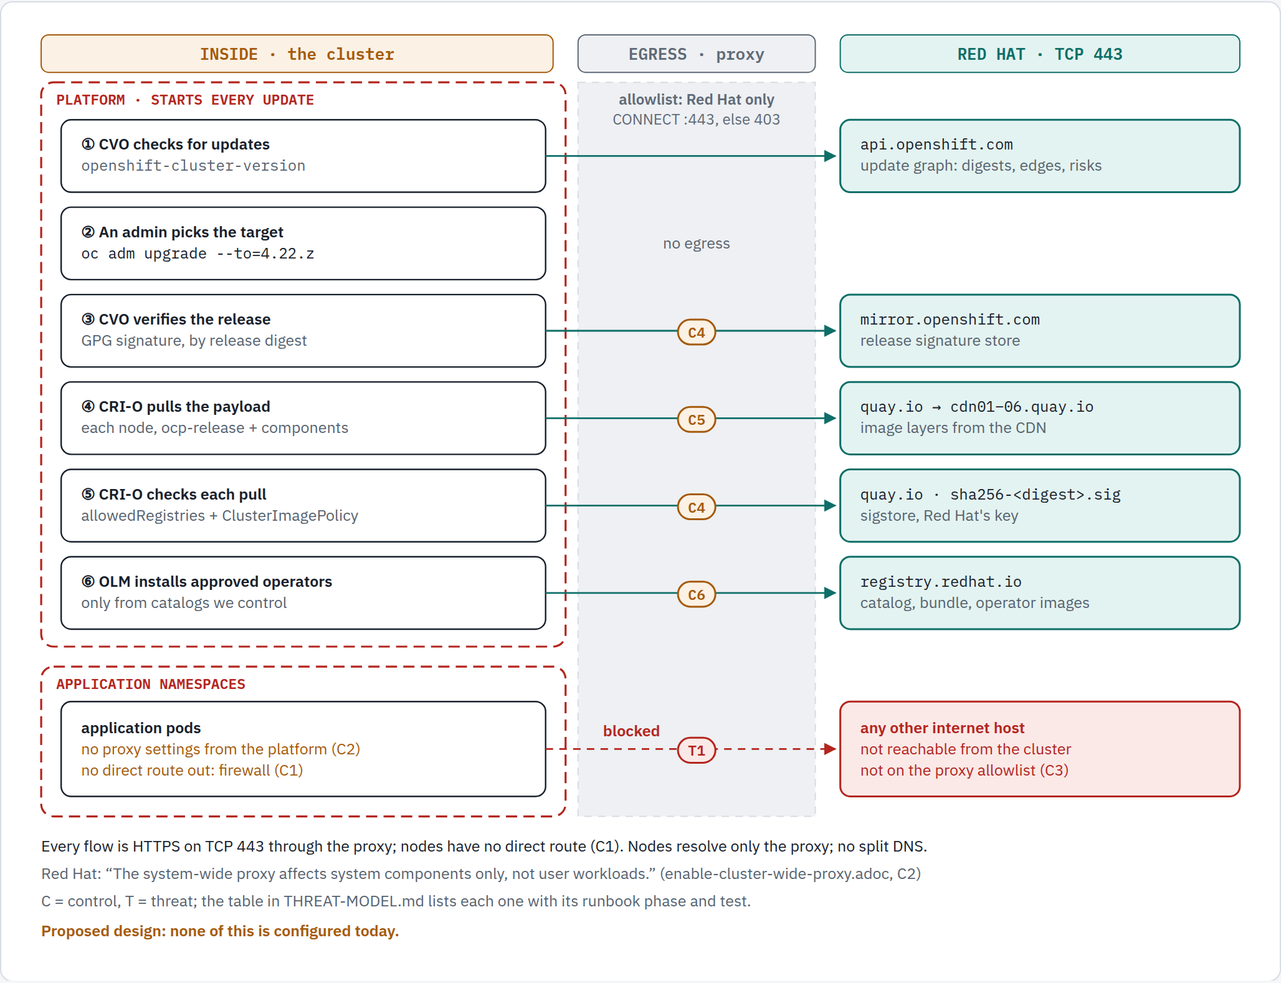
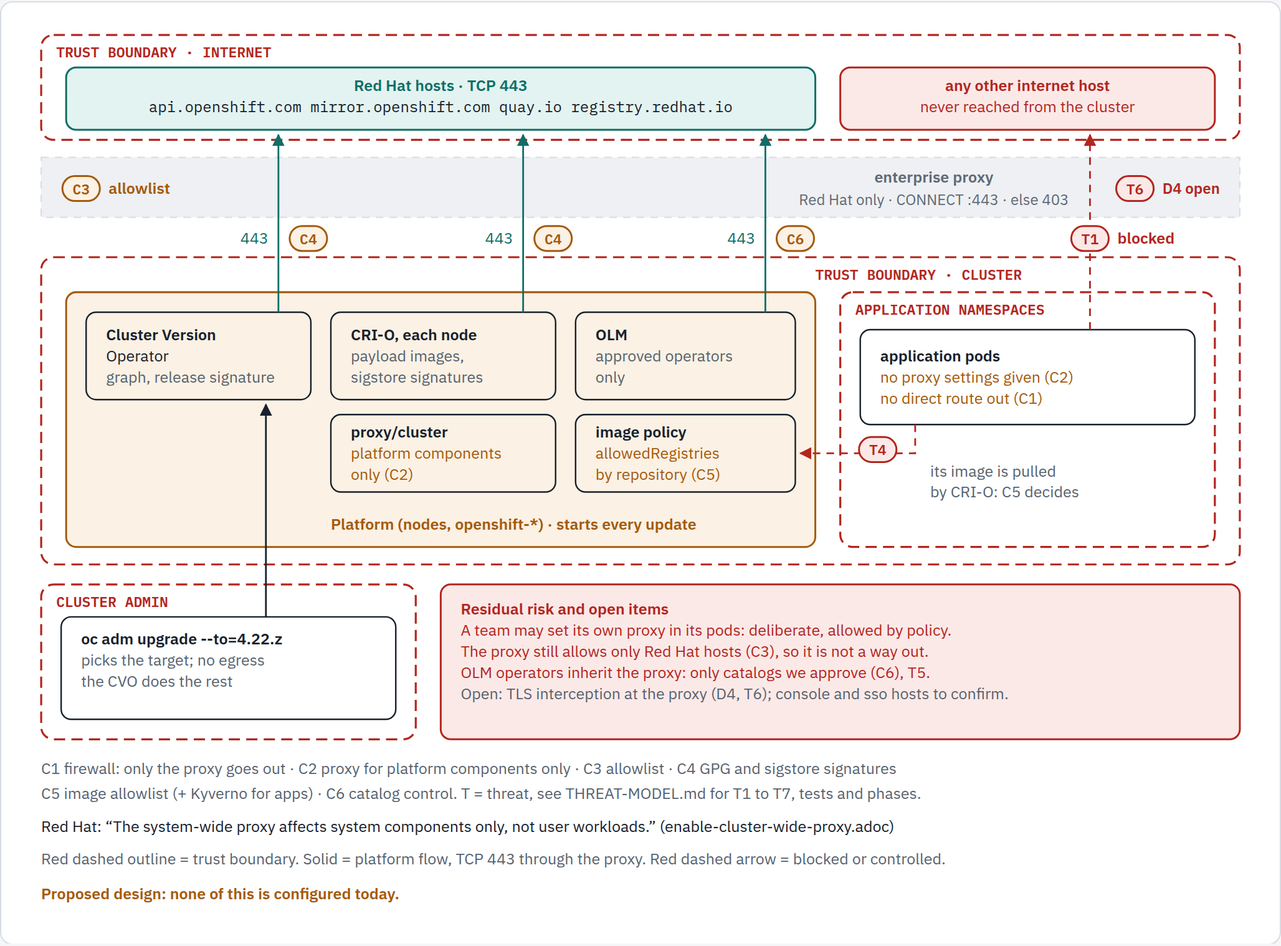
enterprise-proxy: redraw the threat model as a trust-boundary data-flow diagram
Same style as the mirror-gui threat model: nested trust boundaries
(internet, cluster; inside it the platform and the application
namespaces; the cluster admin), the platform's flows (CVO, CRI-O, OLM)
going up through the enterprise proxy to the Red Hat hosts on TCP 443
with their controls, the blocked application-pod path (T1), a pod's
image pulled by CRI-O under the image allowlist (T4), TLS interception
as an open item (T6), and a residual-risk box. Threat and control
numbers match the table in THREAT-MODEL.md.

Claude-Session: https://claude.ai/code/session_019qihKhjEgccdwcruX2zHff

diff --git a/docs/enterprise-proxy/diagrams/threat-model/source.html b/docs/enterprise-proxy/diagrams/threat-model/source.html
@@ -61,7 +61,7 @@ a { color: var(--remote); }
   <header>
     <div class="eyebrow">openshift-upgrade · enterprise proxy · 2026-10-09</div>
     <h1>Threat model: updating a cluster through the proxy</h1>
-    <p class="lede">The Option 1 update, step by step, with the trust boundary between the platform and the applications and the control on each flow.</p>
+    <p class="lede">Trust boundaries, the platform flows that start every update, and why application pods cannot reach the internet.</p>
   </header>
 
   <section>
@@ -69,85 +69,96 @@ a { color: var(--remote); }
     <p class="muted">The platform starts every flow; every flow is TCP 443 through the proxy to a Red Hat host.</p>
     <figure>
       <div class="fig-scroll">
-<svg viewBox="0 0 1000 760" role="img" aria-label="Threat model of a cluster update through the enterprise proxy. Inside the cluster, the platform (the nodes and the openshift namespaces) starts every update: the Cluster Version Operator asks api.openshift.com for the update graph, an admin picks the target, the CVO checks the release signature at mirror.openshift.com, CRI-O on each node pulls the payload from quay.io and its CDN and checks each pull against the repository allowlist and the sigstore signature, and OLM installs only approved operators from registry.redhat.io. Every request is HTTPS on TCP 443 through the proxy, whose allowlist holds only Red Hat hosts and refuses everything else. Application pods are outside that boundary: the platform gives them no proxy settings, and the firewall gives them no direct route, so a pod cannot reach the internet. Controls: C1 firewall lets only the proxy out; C2 the cluster-wide proxy affects system components only; C3 proxy allowlist; C4 release and image signature checks; C5 repository allowlist and admission policy; C6 catalog control.">
+<svg viewBox="0 0 1000 730" role="img" aria-label="Threat model of updating a cluster through the enterprise proxy. Inside the OpenShift cluster, the platform (the nodes and the openshift namespaces) starts every update: the Cluster Version Operator fetches the update graph and the release signature, CRI-O on each node pulls the payload images and their sigstore signatures, and OLM pulls only approved operators. Every one of these flows is HTTPS on TCP 443 through the enterprise proxy, whose allowlist holds only Red Hat hosts: api.openshift.com, mirror.openshift.com, quay.io with its CDN, and registry.redhat.io; anything else gets 403. The cluster admin only picks the target with oc adm upgrade. Application namespaces sit in their own trust boundary: the platform gives application pods no proxy settings and the firewall gives them no direct route, so an attempt to reach any other internet host is blocked (threat T1). A pod's image is still pulled by CRI-O through the proxy, so the image allowlist decides what may be pulled (threat T4, control C5). Residual risk and open items: a team may set its own proxy in its pods, which is deliberate and still reaches only Red Hat hosts; OLM operators inherit the proxy, so only approved catalogs; TLS interception at the proxy is an open decision.">
 <defs><marker id="pt1" viewBox="0 0 10 10" refX="9" refY="5" markerWidth="7" markerHeight="7" orient="auto-start-reverse"><path d="M0,0 L10,5 L0,10 z" fill="context-stroke"/></marker></defs>
 <g font-family="IBM Plex Sans, sans-serif" font-size="12.5" fill="currentColor">
-<rect x="20" y="14" width="410" height="30" rx="6" fill="var(--host-wash)" stroke="var(--host)"/>
-<text x="225.0" y="34" fill="var(--host)" font-family="IBM Plex Mono, monospace" font-size="13" font-weight="600" text-anchor="middle">INSIDE · the cluster</text>
-<rect x="450" y="14" width="190" height="30" rx="6" fill="var(--none-wash)" stroke="var(--none)"/>
-<text x="545.0" y="34" fill="var(--none)" font-family="IBM Plex Mono, monospace" font-size="13" font-weight="600" text-anchor="middle">EGRESS · proxy</text>
-<rect x="660" y="14" width="320" height="30" rx="6" fill="var(--remote-wash)" stroke="var(--remote)"/>
-<text x="820.0" y="34" fill="var(--remote)" font-family="IBM Plex Mono, monospace" font-size="13" font-weight="600" text-anchor="middle">RED HAT · TCP 443</text>
-<rect x="450" y="52" width="190" height="588" fill="var(--none-wash)" stroke="var(--rule)" stroke-dasharray="6 5"/>
-<text x="545" y="70" fill="var(--none)" font-size="12" font-weight="600" text-anchor="middle">allowlist: Red Hat only</text>
-<text x="545" y="86" fill="var(--none)" font-size="12" text-anchor="middle">CONNECT :443, else 403</text>
-<rect x="20" y="52" width="420" height="452" rx="10" fill="none" stroke="var(--gap)" stroke-width="1.6" stroke-dasharray="9 5"/>
-<text x="32" y="70" fill="var(--gap)" font-family="IBM Plex Mono, monospace" font-size="11.5" font-weight="600">PLATFORM · STARTS EVERY UPDATE</text>
-<rect x="36" y="82" width="388" height="58" rx="8" fill="none" stroke="currentColor" stroke-width="1.2"/>
-<text x="52" y="106" fill="currentColor" font-weight="600">① CVO checks for updates</text>
-<text x="52" y="123" fill="var(--muted)" font-family="IBM Plex Mono, monospace" font-size="12">openshift-cluster-version</text>
-<rect x="660" y="82" width="320" height="58" rx="8" fill="var(--remote-wash)" stroke="var(--remote)" stroke-width="1.5"/>
-<text x="676" y="106" fill="currentColor" font-family="IBM Plex Mono, monospace" font-size="12">api.openshift.com</text>
-<text x="676" y="123" fill="var(--muted)">update graph: digests, edges, risks</text>
-<path d="M424,111 L656,111" fill="none" stroke="var(--remote)" stroke-width="1.4" marker-end="url(#pt1)"/>
-<rect x="36" y="152" width="388" height="58" rx="8" fill="none" stroke="currentColor" stroke-width="1.2"/>
-<text x="52" y="176" fill="currentColor" font-weight="600">② An admin picks the target</text>
-<text x="52" y="193" fill="currentColor" font-family="IBM Plex Mono, monospace" font-size="12">oc adm upgrade --to=4.22.z</text>
-<text x="545" y="185" fill="var(--muted)" text-anchor="middle">no egress</text>
-<rect x="36" y="222" width="388" height="58" rx="8" fill="none" stroke="currentColor" stroke-width="1.2"/>
-<text x="52" y="246" fill="currentColor" font-weight="600">③ CVO verifies the release</text>
-<text x="52" y="263" fill="var(--muted)">GPG signature, by release digest</text>
-<rect x="660" y="222" width="320" height="58" rx="8" fill="var(--remote-wash)" stroke="var(--remote)" stroke-width="1.5"/>
-<text x="676" y="246" fill="currentColor" font-family="IBM Plex Mono, monospace" font-size="12">mirror.openshift.com</text>
-<text x="676" y="263" fill="var(--muted)">release signature store</text>
-<path d="M424,251 L656,251" fill="none" stroke="var(--remote)" stroke-width="1.4" marker-end="url(#pt1)"/>
-<rect x="530" y="242" width="30" height="20" rx="10" fill="var(--host-wash)" stroke="var(--host)" stroke-width="1.5"/>
-<text x="545" y="256.5" fill="var(--host)" font-family="IBM Plex Mono, monospace" font-size="11.5" font-weight="700" text-anchor="middle">C4</text>
-<rect x="36" y="292" width="388" height="58" rx="8" fill="none" stroke="currentColor" stroke-width="1.2"/>
-<text x="52" y="316" fill="currentColor" font-weight="600">④ CRI-O pulls the payload</text>
-<text x="52" y="333" fill="var(--muted)">each node, ocp-release + components</text>
-<rect x="660" y="292" width="320" height="58" rx="8" fill="var(--remote-wash)" stroke="var(--remote)" stroke-width="1.5"/>
-<text x="676" y="316" fill="currentColor" font-family="IBM Plex Mono, monospace" font-size="12">quay.io → cdn01–06.quay.io</text>
-<text x="676" y="333" fill="var(--muted)">image layers from the CDN</text>
-<path d="M424,321 L656,321" fill="none" stroke="var(--remote)" stroke-width="1.4" marker-end="url(#pt1)"/>
-<rect x="530" y="312" width="30" height="20" rx="10" fill="var(--host-wash)" stroke="var(--host)" stroke-width="1.5"/>
-<text x="545" y="326.5" fill="var(--host)" font-family="IBM Plex Mono, monospace" font-size="11.5" font-weight="700" text-anchor="middle">C5</text>
-<rect x="36" y="362" width="388" height="58" rx="8" fill="none" stroke="currentColor" stroke-width="1.2"/>
-<text x="52" y="386" fill="currentColor" font-weight="600">⑤ CRI-O checks each pull</text>
-<text x="52" y="403" fill="var(--muted)">allowedRegistries + ClusterImagePolicy</text>
-<rect x="660" y="362" width="320" height="58" rx="8" fill="var(--remote-wash)" stroke="var(--remote)" stroke-width="1.5"/>
-<text x="676" y="386" fill="currentColor" font-family="IBM Plex Mono, monospace" font-size="12">quay.io · sha256-&lt;digest&gt;.sig</text>
-<text x="676" y="403" fill="var(--muted)">sigstore, Red Hat's key</text>
-<path d="M424,391 L656,391" fill="none" stroke="var(--remote)" stroke-width="1.4" marker-end="url(#pt1)"/>
-<rect x="530" y="382" width="30" height="20" rx="10" fill="var(--host-wash)" stroke="var(--host)" stroke-width="1.5"/>
-<text x="545" y="396.5" fill="var(--host)" font-family="IBM Plex Mono, monospace" font-size="11.5" font-weight="700" text-anchor="middle">C4</text>
-<rect x="36" y="432" width="388" height="58" rx="8" fill="none" stroke="currentColor" stroke-width="1.2"/>
-<text x="52" y="456" fill="currentColor" font-weight="600">⑥ OLM installs approved operators</text>
-<text x="52" y="473" fill="var(--muted)">only from catalogs we control</text>
-<rect x="660" y="432" width="320" height="58" rx="8" fill="var(--remote-wash)" stroke="var(--remote)" stroke-width="1.5"/>
-<text x="676" y="456" fill="currentColor" font-family="IBM Plex Mono, monospace" font-size="12">registry.redhat.io</text>
-<text x="676" y="473" fill="var(--muted)">catalog, bundle, operator images</text>
-<path d="M424,461 L656,461" fill="none" stroke="var(--remote)" stroke-width="1.4" marker-end="url(#pt1)"/>
-<rect x="530" y="452" width="30" height="20" rx="10" fill="var(--host-wash)" stroke="var(--host)" stroke-width="1.5"/>
-<text x="545" y="466.5" fill="var(--host)" font-family="IBM Plex Mono, monospace" font-size="11.5" font-weight="700" text-anchor="middle">C6</text>
-<rect x="20" y="520" width="420" height="120" rx="10" fill="none" stroke="var(--gap)" stroke-width="1.6" stroke-dasharray="9 5"/>
-<text x="32" y="538" fill="var(--gap)" font-family="IBM Plex Mono, monospace" font-size="11.5" font-weight="600">APPLICATION NAMESPACES</text>
-<rect x="36" y="548" width="388" height="76" rx="8" fill="none" stroke="currentColor" stroke-width="1.2"/>
-<text x="52" y="573.5" fill="currentColor" font-weight="600">application pods</text>
-<text x="52" y="590.5" fill="var(--host)">no proxy settings from the platform (C2)</text>
-<text x="52" y="607.5" fill="var(--host)">no direct route out: firewall (C1)</text>
-<rect x="660" y="548" width="320" height="76" rx="8" fill="var(--gap-wash)" stroke="var(--gap)" stroke-width="1.5"/>
-<text x="676" y="573.5" fill="var(--gap)" font-weight="600">any other internet host</text>
-<text x="676" y="590.5" fill="var(--gap)">not reachable from the cluster</text>
-<text x="676" y="607.5" fill="var(--gap)">not on the proxy allowlist (C3)</text>
-<path d="M424,586 L656,586" fill="none" stroke="var(--gap)" stroke-width="1.4" stroke-dasharray="6 5" marker-end="url(#pt1)"/>
-<rect x="530" y="577" width="30" height="20" rx="10" fill="var(--gap-wash)" stroke="var(--gap)" stroke-width="1.5"/>
-<text x="545" y="591.5" fill="var(--gap)" font-family="IBM Plex Mono, monospace" font-size="11.5" font-weight="700" text-anchor="middle">T1</text>
-<text x="470" y="576" fill="var(--gap)" font-weight="600">blocked</text>
-<text x="20" y="668" fill="currentColor">Every flow is HTTPS on TCP 443 through the proxy; nodes have no direct route (C1). Nodes resolve only the proxy; no split DNS.</text>
-<text x="20" y="690" fill="var(--muted)">Red Hat: “The system-wide proxy affects system components only, not user workloads.” (enable-cluster-wide-proxy.adoc, C2)</text>
-<text x="20" y="712" fill="var(--muted)">C = control, T = threat; the table in THREAT-MODEL.md lists each one with its runbook phase and test.</text>
-<text x="20" y="736" fill="var(--host)" font-weight="600">Proposed design: none of this is configured today.</text>
+<rect x="20" y="14" width="960" height="84" rx="10" fill="none" stroke="var(--gap)" stroke-width="1.6" stroke-dasharray="9 5"/>
+<text x="32" y="32" fill="var(--gap)" font-family="IBM Plex Mono, monospace" font-size="11.5" font-weight="600">TRUST BOUNDARY · INTERNET</text>
+<rect x="40" y="40" width="600" height="50" rx="8" fill="var(--remote-wash)" stroke="var(--remote)" stroke-width="1.5"/>
+<text x="340.0" y="59" fill="var(--remote)" font-weight="600" text-anchor="middle">Red Hat hosts · TCP 443</text>
+<text x="340.0" y="76" fill="currentColor" font-family="IBM Plex Mono, monospace" font-size="12" text-anchor="middle">api.openshift.com  mirror.openshift.com  quay.io  registry.redhat.io</text>
+<rect x="660" y="40" width="300" height="50" rx="8" fill="var(--gap-wash)" stroke="var(--gap)" stroke-width="1.5"/>
+<text x="810.0" y="59" fill="var(--gap)" font-weight="600" text-anchor="middle">any other internet host</text>
+<text x="810.0" y="76" fill="var(--gap)" text-anchor="middle">never reached from the cluster</text>
+<rect x="20" y="112" width="960" height="48" fill="var(--none-wash)" stroke="var(--rule)" stroke-dasharray="6 5"/>
+<rect x="37" y="127" width="30" height="20" rx="10" fill="var(--host-wash)" stroke="var(--host)" stroke-width="1.5"/>
+<text x="52" y="141.5" fill="var(--host)" font-family="IBM Plex Mono, monospace" font-size="11.5" font-weight="700" text-anchor="middle">C3</text>
+<text x="74" y="141" fill="var(--host)" font-weight="600">allowlist</text>
+<text x="735" y="132" fill="var(--none)" font-weight="600" text-anchor="middle">enterprise proxy</text>
+<text x="735" y="150" fill="var(--none)" font-size="12" text-anchor="middle">Red Hat only · CONNECT :443 · else 403</text>
+<rect x="881" y="127" width="30" height="20" rx="10" fill="var(--gap-wash)" stroke="var(--gap)" stroke-width="1.5"/>
+<text x="896" y="141.5" fill="var(--gap)" font-family="IBM Plex Mono, monospace" font-size="11.5" font-weight="700" text-anchor="middle">T6</text>
+<text x="918" y="141" fill="var(--gap)" font-size="12" font-weight="600">D4 open</text>
+<rect x="20" y="192" width="960" height="246" rx="10" fill="none" stroke="var(--gap)" stroke-width="1.6" stroke-dasharray="9 5"/>
+<text x="32" y="210" fill="var(--gap)" font-family="IBM Plex Mono, monospace" font-size="11.5" font-weight="600"></text>
+<text x="640" y="210" fill="var(--gap)" font-family="IBM Plex Mono, monospace" font-size="11.5" font-weight="600">TRUST BOUNDARY · CLUSTER</text>
+<rect x="40" y="220" width="600" height="204" rx="8" fill="var(--host-wash)" stroke="var(--host)" stroke-width="1.5"/>
+<rect x="56" y="236" width="180" height="70" rx="8" fill="none" stroke="currentColor" stroke-width="1.2"/>
+<text x="72" y="258.5" fill="currentColor" font-weight="600">Cluster Version</text>
+<text x="72" y="275.5" fill="currentColor">Operator</text>
+<text x="72" y="292.5" fill="var(--muted)">graph, release signature</text>
+<rect x="252" y="236" width="180" height="70" rx="8" fill="none" stroke="currentColor" stroke-width="1.2"/>
+<text x="268" y="258.5" fill="currentColor" font-weight="600">CRI-O, each node</text>
+<text x="268" y="275.5" fill="var(--muted)">payload images,</text>
+<text x="268" y="292.5" fill="var(--muted)">sigstore signatures</text>
+<rect x="448" y="236" width="176" height="70" rx="8" fill="none" stroke="currentColor" stroke-width="1.2"/>
+<text x="464" y="258.5" fill="currentColor" font-weight="600">OLM</text>
+<text x="464" y="275.5" fill="var(--muted)">approved operators</text>
+<text x="464" y="292.5" fill="var(--muted)">only</text>
+<rect x="252" y="318" width="180" height="62" rx="8" fill="none" stroke="currentColor" stroke-width="1.2"/>
+<text x="268" y="336.5" fill="currentColor" font-weight="600">proxy/cluster</text>
+<text x="268" y="353.5" fill="var(--host)">platform components</text>
+<text x="268" y="370.5" fill="var(--host)">only (C2)</text>
+<rect x="448" y="318" width="176" height="62" rx="8" fill="none" stroke="currentColor" stroke-width="1.2"/>
+<text x="464" y="336.5" fill="currentColor" font-weight="600">image policy</text>
+<text x="464" y="353.5" fill="var(--host)">allowedRegistries</text>
+<text x="464" y="370.5" fill="var(--host)">by repository (C5)</text>
+<text x="252" y="410" fill="var(--host)" font-weight="600">Platform (nodes, openshift-*) · starts every update</text>
+<path d="M210,236 L210,94" fill="none" stroke="var(--remote)" stroke-width="1.4" marker-end="url(#pt1)"/>
+<text x="202" y="181" fill="var(--remote)" text-anchor="end">443</text>
+<rect x="219" y="167" width="30" height="20" rx="10" fill="var(--host-wash)" stroke="var(--host)" stroke-width="1.5"/>
+<text x="234" y="181.5" fill="var(--host)" font-family="IBM Plex Mono, monospace" font-size="11.5" font-weight="700" text-anchor="middle">C4</text>
+<path d="M406,236 L406,94" fill="none" stroke="var(--remote)" stroke-width="1.4" marker-end="url(#pt1)"/>
+<text x="398" y="181" fill="var(--remote)" text-anchor="end">443</text>
+<rect x="415" y="167" width="30" height="20" rx="10" fill="var(--host-wash)" stroke="var(--host)" stroke-width="1.5"/>
+<text x="430" y="181.5" fill="var(--host)" font-family="IBM Plex Mono, monospace" font-size="11.5" font-weight="700" text-anchor="middle">C4</text>
+<path d="M600,236 L600,94" fill="none" stroke="var(--remote)" stroke-width="1.4" marker-end="url(#pt1)"/>
+<text x="592" y="181" fill="var(--remote)" text-anchor="end">443</text>
+<rect x="609" y="167" width="30" height="20" rx="10" fill="var(--host-wash)" stroke="var(--host)" stroke-width="1.5"/>
+<text x="624" y="181.5" fill="var(--host)" font-family="IBM Plex Mono, monospace" font-size="11.5" font-weight="700" text-anchor="middle">C6</text>
+<rect x="660" y="220" width="300" height="204" rx="10" fill="none" stroke="var(--gap)" stroke-width="1.6" stroke-dasharray="9 5"/>
+<text x="672" y="238" fill="var(--gap)" font-family="IBM Plex Mono, monospace" font-size="11.5" font-weight="600">APPLICATION NAMESPACES</text>
+<rect x="676" y="250" width="268" height="76" rx="8" fill="none" stroke="currentColor" stroke-width="1.2"/>
+<text x="692" y="275.5" fill="currentColor" font-weight="600">application pods</text>
+<text x="692" y="292.5" fill="var(--host)">no proxy settings given (C2)</text>
+<text x="692" y="309.5" fill="var(--host)">no direct route out (C1)</text>
+<path d="M860,250 L860,94" fill="none" stroke="var(--gap)" stroke-width="1.4" stroke-dasharray="6 5" marker-end="url(#pt1)"/>
+<rect x="845" y="167" width="30" height="20" rx="10" fill="var(--gap-wash)" stroke="var(--gap)" stroke-width="1.5"/>
+<text x="860" y="181.5" fill="var(--gap)" font-family="IBM Plex Mono, monospace" font-size="11.5" font-weight="700" text-anchor="middle">T1</text>
+<text x="882" y="181" fill="var(--gap)" font-weight="600">blocked</text>
+<path d="M720,326 L720,349 L628,349" fill="none" stroke="var(--gap)" stroke-width="1.4" stroke-dasharray="6 5" marker-end="url(#pt1)"/>
+<rect x="675" y="336" width="30" height="20" rx="10" fill="var(--gap-wash)" stroke="var(--gap)" stroke-width="1.5"/>
+<text x="690" y="350.5" fill="var(--gap)" font-family="IBM Plex Mono, monospace" font-size="11.5" font-weight="700" text-anchor="middle">T4</text>
+<text x="732" y="368" fill="var(--muted)">its image is pulled</text>
+<text x="732" y="384" fill="var(--muted)">by CRI-O: C5 decides</text>
+<rect x="20" y="454" width="300" height="124" rx="10" fill="none" stroke="var(--gap)" stroke-width="1.6" stroke-dasharray="9 5"/>
+<text x="32" y="472" fill="var(--gap)" font-family="IBM Plex Mono, monospace" font-size="11.5" font-weight="600">CLUSTER ADMIN</text>
+<rect x="36" y="480" width="268" height="82" rx="8" fill="none" stroke="currentColor" stroke-width="1.2"/>
+<text x="52" y="502" fill="currentColor" font-weight="600">oc adm upgrade --to=4.22.z</text>
+<text x="52" y="519" fill="var(--muted)">picks the target; no egress</text>
+<text x="52" y="536" fill="var(--muted)">the CVO does the rest</text>
+<path d="M200,480 L200,310" fill="none" stroke="currentColor" stroke-width="1.4" marker-end="url(#pt1)"/>
+<rect x="340" y="454" width="640" height="124" rx="8" fill="var(--gap-wash)" stroke="var(--gap)" stroke-width="1.5"/>
+<text x="356" y="478" fill="var(--gap)" font-weight="600">Residual risk and open items</text>
+<text x="356" y="495" fill="var(--gap)">A team may set its own proxy in its pods: deliberate, allowed by policy.</text>
+<text x="356" y="512" fill="var(--gap)">The proxy still allows only Red Hat hosts (C3), so it is not a way out.</text>
+<text x="356" y="529" fill="var(--gap)">OLM operators inherit the proxy: only catalogs we approve (C6), T5.</text>
+<text x="356" y="546" fill="var(--muted)">Open: TLS interception at the proxy (D4, T6); console and sso hosts to confirm.</text>
+<text x="20" y="606" fill="var(--muted)">C1 firewall: only the proxy goes out · C2 proxy for platform components only · C3 allowlist · C4 GPG and sigstore signatures</text>
+<text x="20" y="626" fill="var(--muted)">C5 image allowlist (+ Kyverno for apps) · C6 catalog control.   T = threat, see THREAT-MODEL.md for T1 to T7, tests and phases.</text>
+<text x="20" y="652" fill="currentColor">Red Hat: “The system-wide proxy affects system components only, not user workloads.” (enable-cluster-wide-proxy.adoc)</text>
+<text x="20" y="678" fill="var(--muted)">Red dashed outline = trust boundary.  Solid = platform flow, TCP 443 through the proxy.  Red dashed arrow = blocked or controlled.</text>
+<text x="20" y="706" fill="var(--host)" font-weight="600">Proposed design: none of this is configured today.</text>
 </g>
 </svg>
       </div>

diff --git a/docs/enterprise-proxy/THREAT-MODEL.md b/docs/enterprise-proxy/THREAT-MODEL.md
@@ -1,9 +1,8 @@
 # Threat model: updating a cluster through the enterprise proxy
 
-The Step 2 design ([`README.md`](README.md)) as a threat model. It is the Option 1 update from
-[`../openshift-update-egress.html`](../openshift-update-egress.html) (*Option 1 in detail*), the same six steps, with
-the trust boundary between the platform and the applications and the control on every flow. It
-shows three things:
+The Step 2 design ([`README.md`](README.md)) as a threat model. It covers the Option 1 update from
+[`../openshift-update-egress.html`](../openshift-update-egress.html) (*Option 1 in detail*), drawn as
+trust boundaries and data flows, with the control on every flow. It shows three things:
 
 1. **The platform starts every update.** The Cluster Version Operator, CRI-O on the nodes and OLM
    make the requests; an admin picks the target. Nothing in an application namespace takes part.
@@ -15,11 +14,13 @@ shows three things:
 <picture>
   <source media="(prefers-color-scheme: dark)" srcset="diagrams/threat-model/proxy-update-threat-model.dark.png">
   <source srcset="diagrams/threat-model/proxy-update-threat-model.light.png">
-  <img alt="Threat model of a cluster update through the enterprise proxy. Inside the cluster, the platform (the nodes and the openshift namespaces) starts every update: the Cluster Version Operator asks api.openshift.com for the update graph, an admin picks the target, the CVO checks the release signature at mirror.openshift.com, CRI-O on each node pulls the payload from quay.io and its CDN and checks each pull against the repository allowlist and the sigstore signature, and OLM installs only approved operators from registry.redhat.io. Every request is HTTPS on TCP 443 through the proxy, whose allowlist holds only Red Hat hosts and refuses everything else. Application pods are outside that boundary: the platform gives them no proxy settings, and the firewall gives them no direct route, so a pod cannot reach the internet. Controls: C1 firewall lets only the proxy out; C2 the cluster-wide proxy affects system components only; C3 proxy allowlist; C4 release and image signature checks; C5 repository allowlist and admission policy; C6 catalog control." src="diagrams/threat-model/proxy-update-threat-model.light.png">
+  <img alt="Threat model of updating a cluster through the enterprise proxy. Inside the OpenShift cluster, the platform (the nodes and the openshift namespaces) starts every update: the Cluster Version Operator fetches the update graph and the release signature, CRI-O on each node pulls the payload images and their sigstore signatures, and OLM pulls only approved operators. Every one of these flows is HTTPS on TCP 443 through the enterprise proxy, whose allowlist holds only Red Hat hosts: api.openshift.com, mirror.openshift.com, quay.io with its CDN, and registry.redhat.io; anything else gets 403. The cluster admin only picks the target with oc adm upgrade. Application namespaces sit in their own trust boundary: the platform gives application pods no proxy settings and the firewall gives them no direct route, so an attempt to reach any other internet host is blocked (threat T1). A pod's image is still pulled by CRI-O through the proxy, so the image allowlist decides what may be pulled (threat T4, control C5). Residual risk and open items: a team may set its own proxy in its pods, which is deliberate and still reaches only Red Hat hosts; OLM operators inherit the proxy, so only approved catalogs; TLS interception at the proxy is an open decision." src="diagrams/threat-model/proxy-update-threat-model.light.png">
 </picture>
 
-*One update through the proxy. Red dashed outlines are trust boundaries; C1–C6 are controls, T1 the
-attempt this design must stop.*
+*Trust boundaries (red dashed): the internet, the cluster, and inside it the platform, which starts every
+update, and the application namespaces. Platform flows (solid) are TCP 443 through the proxy to Red Hat
+hosts; C1–C6 are the controls, T1, T4 and T6 the threats drawn where they occur (all seven are in the
+table below).*
 
 ## Who calls which Red Hat host
 
